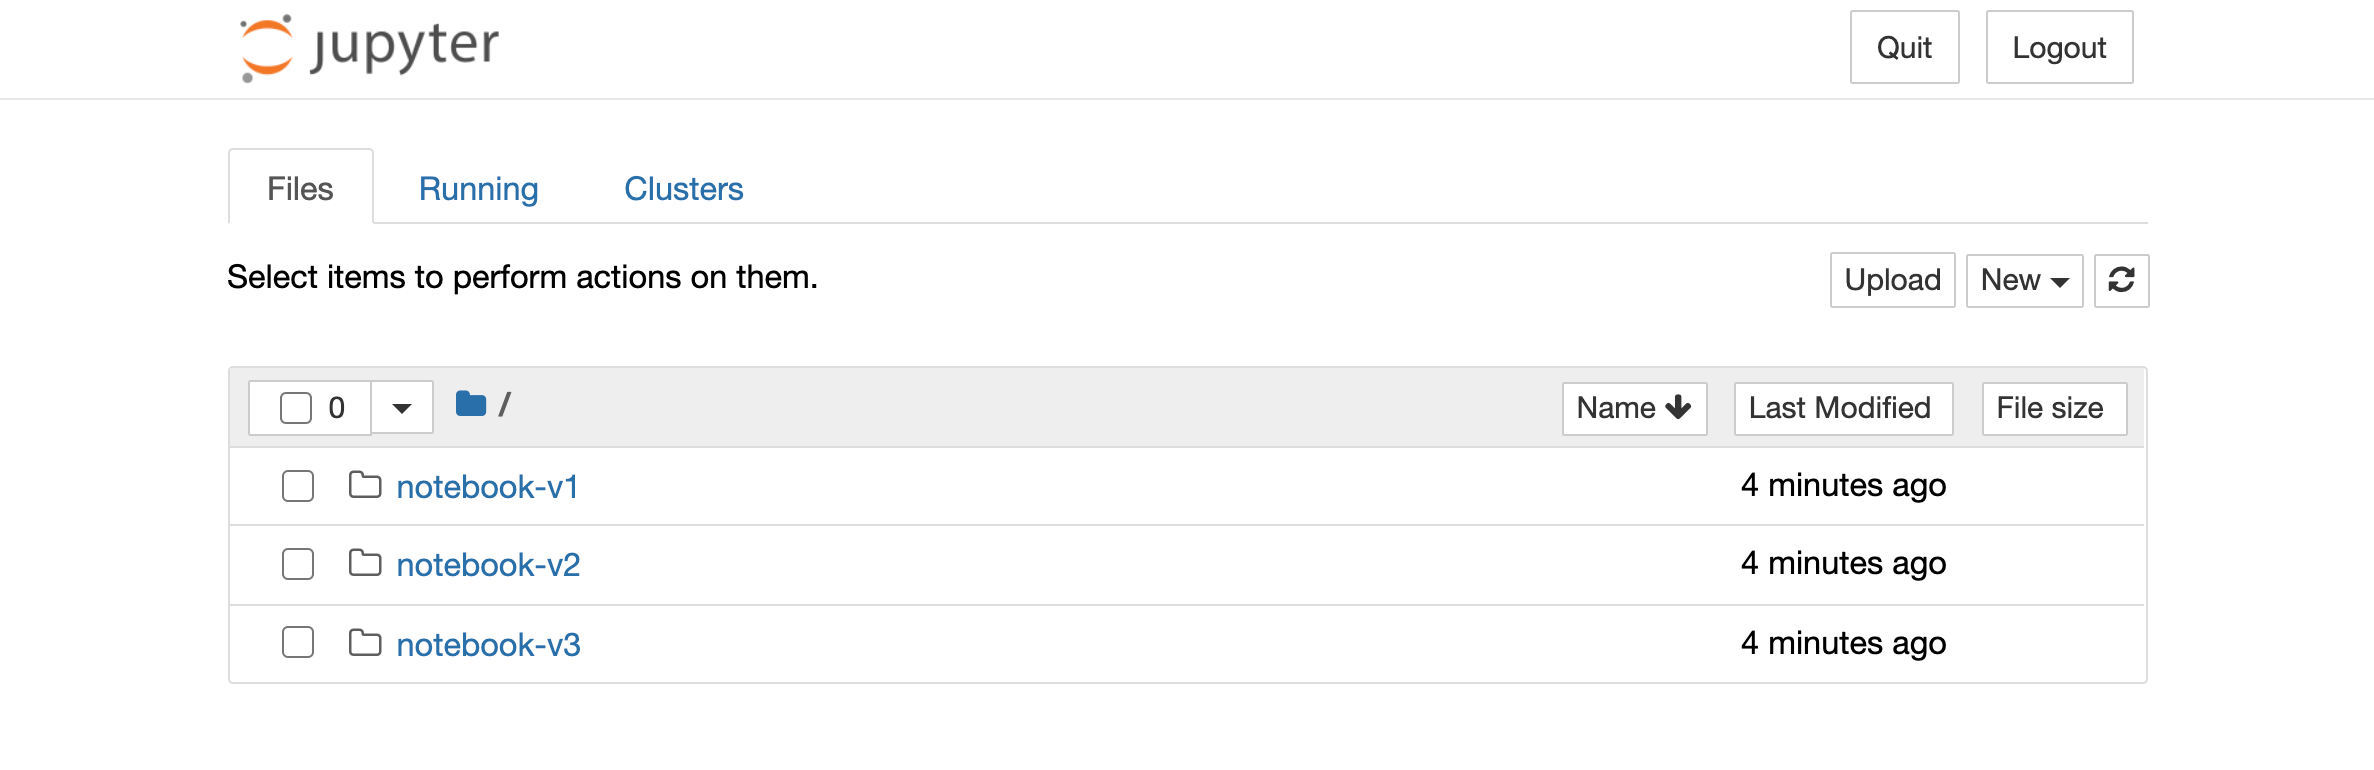
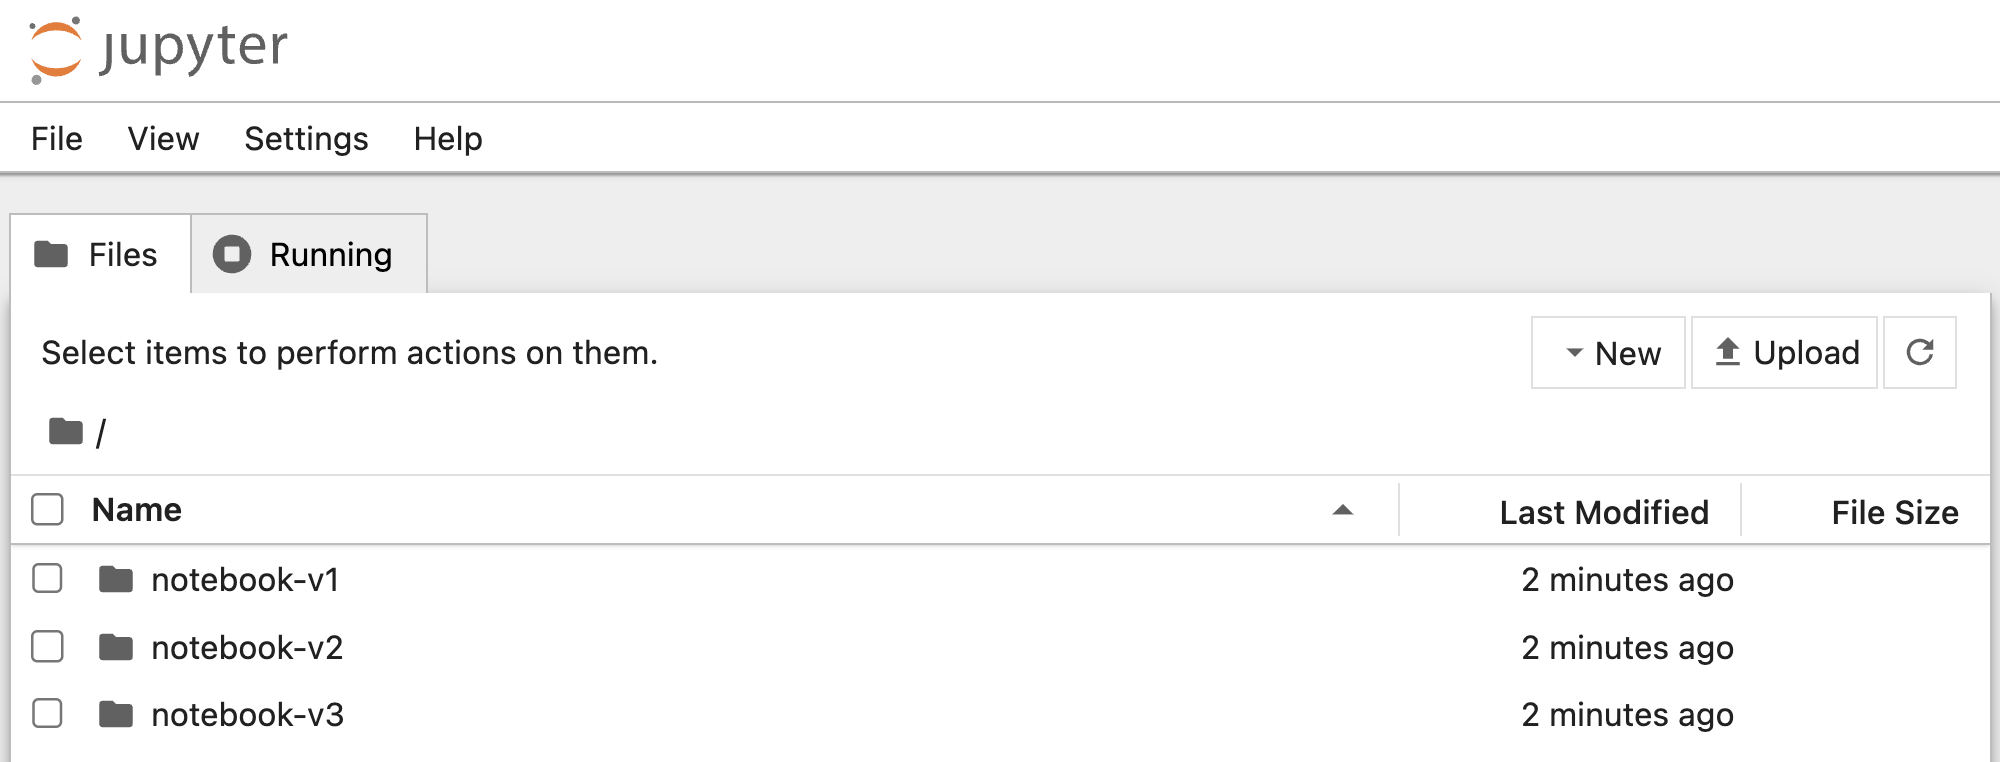
Update to newer Jupyter notebook configuration.

diff --git a/workshop/content/exercises/02-running-jupyterlab.md b/workshop/content/exercises/02-running-jupyterlab.md
@@ -6,30 +6,6 @@ To use the JupyterLab interface, you first need to install it, as it is not bund
 command: pip install jupyterlab
 ```
 
-JupyterLab uses a different configuration file from the classic Jupyter notebook. To set the password for JupyterLab you will instead need to run:
-
-```terminal:execute
-command: jupyter server password
-```
-
-This will prompt you to enter the password and then confirm it. Enter:
-
-```terminal:input
-text: jupyter
-```
-
-and then to verify it, again enter:
-
-```terminal:input
-text: jupyter
-```
-
-This will update the file ``$HOME/.jupyter/jupyter_server_config.json`` with a hash of the credentials. You can view the contents of the file by running:
-
-```terminal:execute
-command: cat $HOME/.jupyter/jupyter_server_config.json
-```
-
 You can now start up the Jupyter notebook again, but this time using the JupyterLab interface, by running:
 
 ```terminal:execute
@@ -42,7 +18,7 @@ Click on the URL again to bring up the JupyterLab interface.
 url: {{ingress_protocol}}://local-8888-{{session_namespace}}.{{ingress_domain}}/
 ```
 
-Login using the same credentials as before.
+Because you already logged in using the classic interface you shouldn't need to login again, however if prompted to login again use the same credentials as before.
 
 ![JupyterLab Interface](notebook-jupyterlab.png)
 

diff --git a/workshop/content/exercises/01-running-a-notebook.md b/workshop/content/exercises/01-running-a-notebook.md
@@ -46,10 +46,10 @@ and then to verify it, again enter:
 text: jupyter
 ```
 
-This will update the file ``$HOME/.jupyter/jupyter_notebook_config.json`` with a hash of the credentials. You can view the contents of the file by running:
+This will update the file ``$HOME/.jupyter/jupyter_server_config.json`` with a hash of the credentials. You can view the contents of the file by running:
 
 ```terminal:execute
-command: cat $HOME/.jupyter/jupyter_notebook_config.json
+command: cat $HOME/.jupyter/jupyter_server_config.json
 ```
 
 You can now start up the Jupyter notebook application by running:
